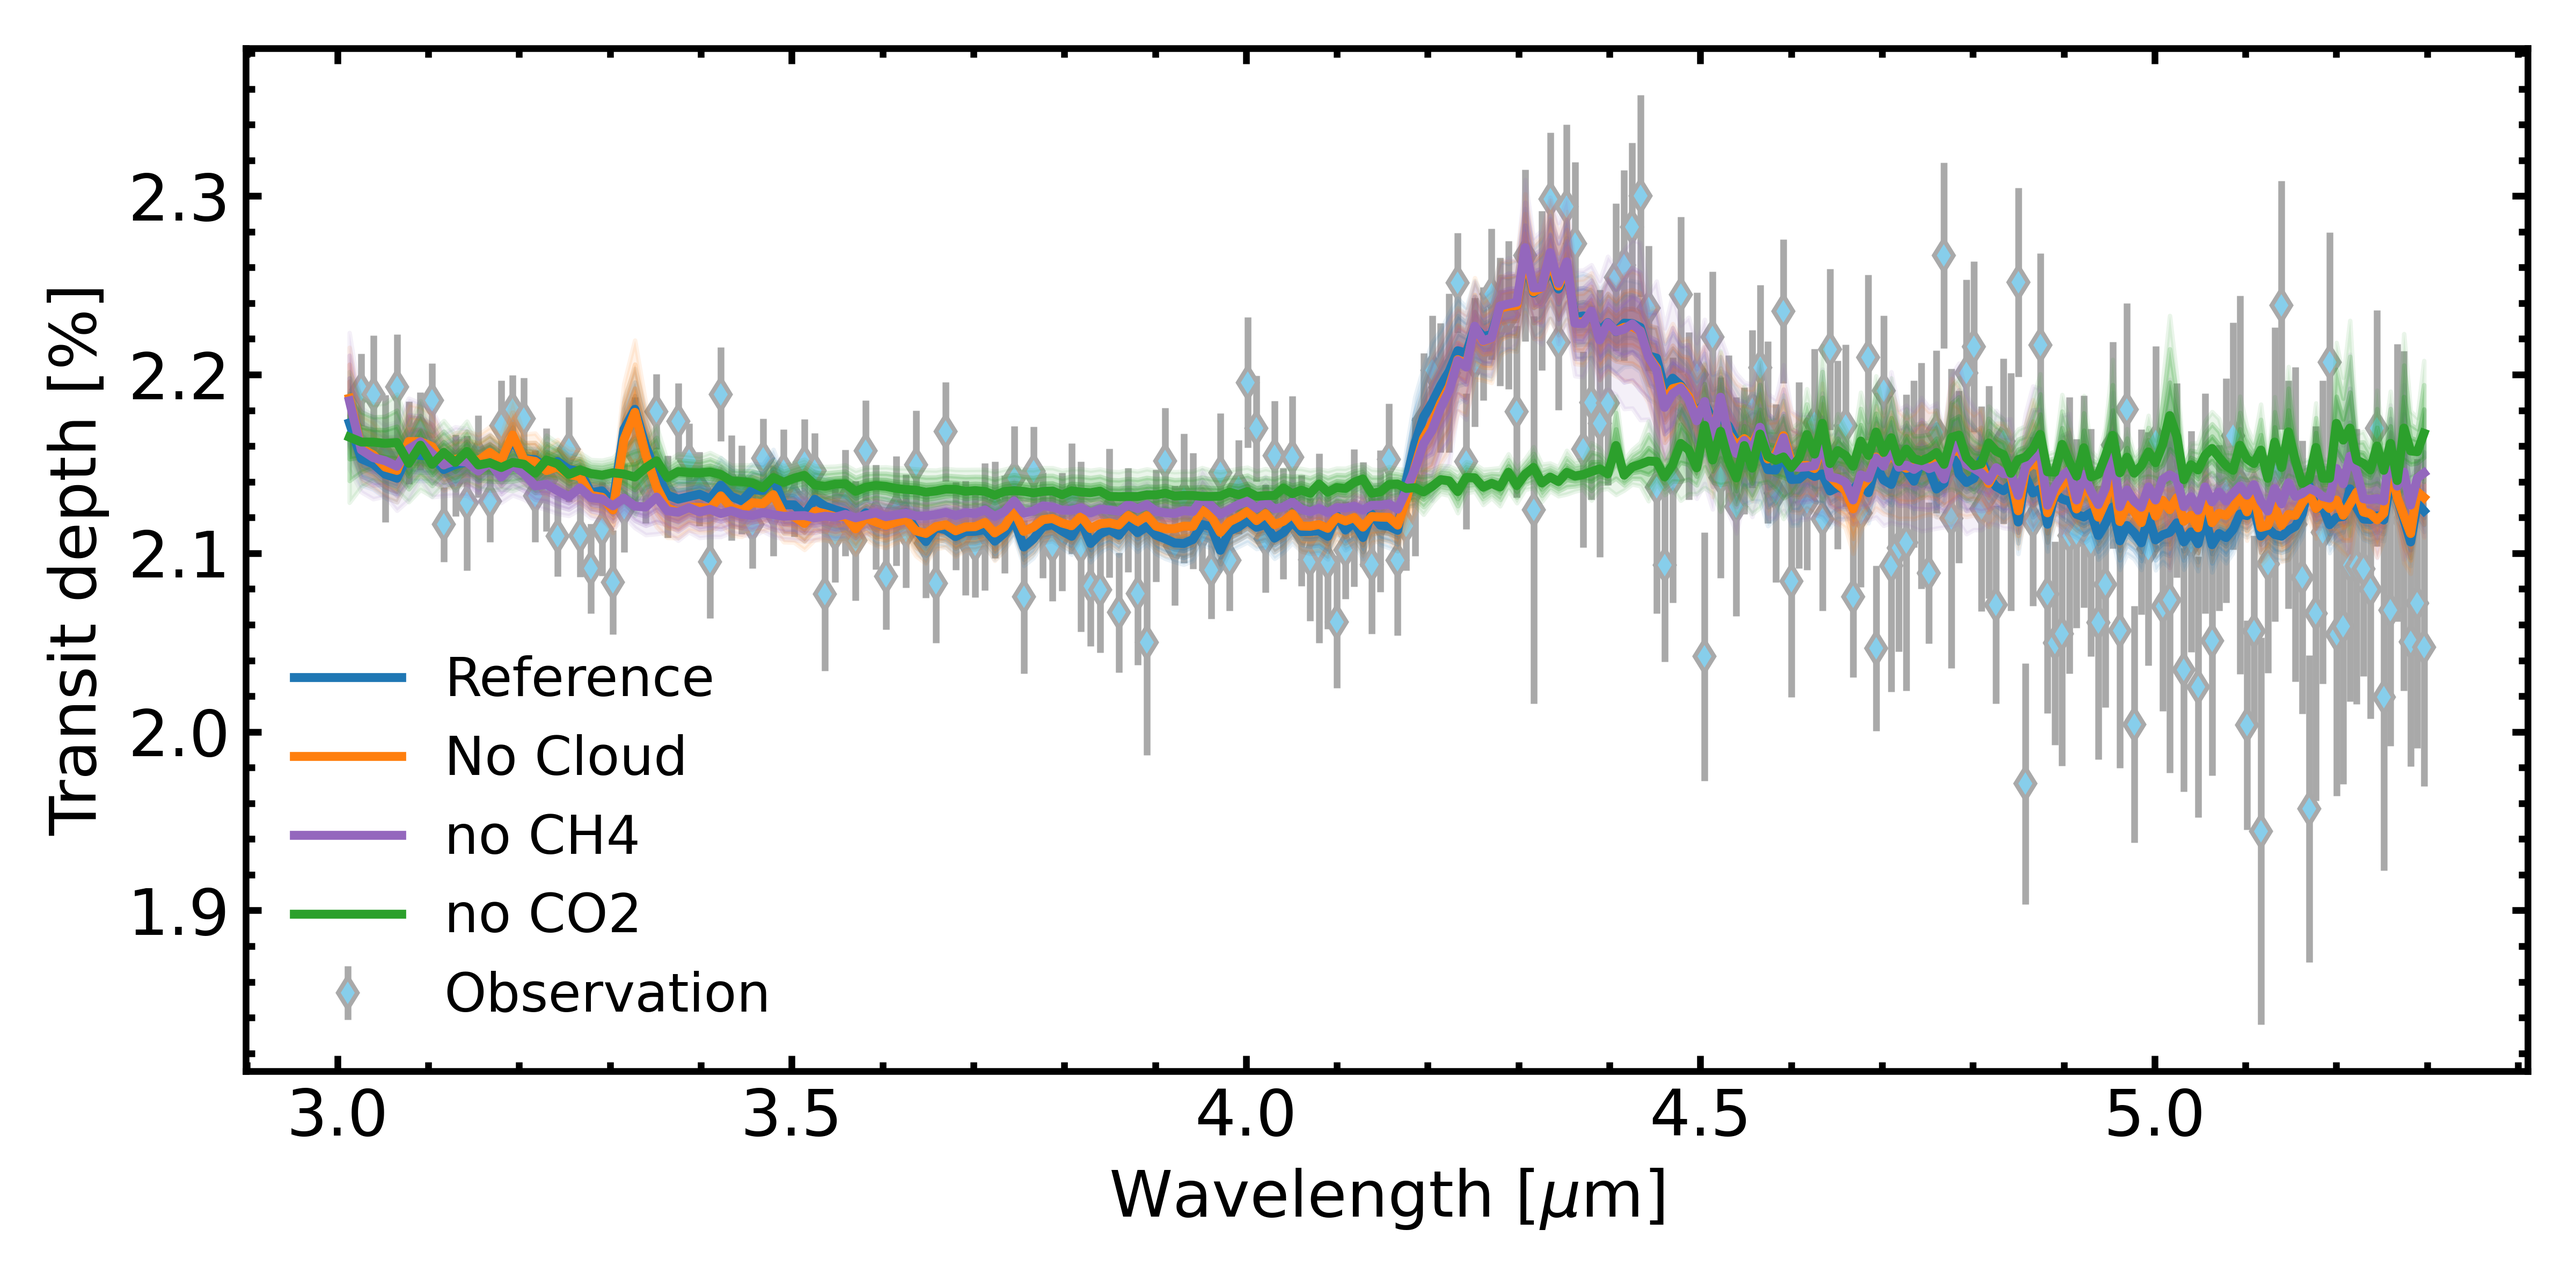
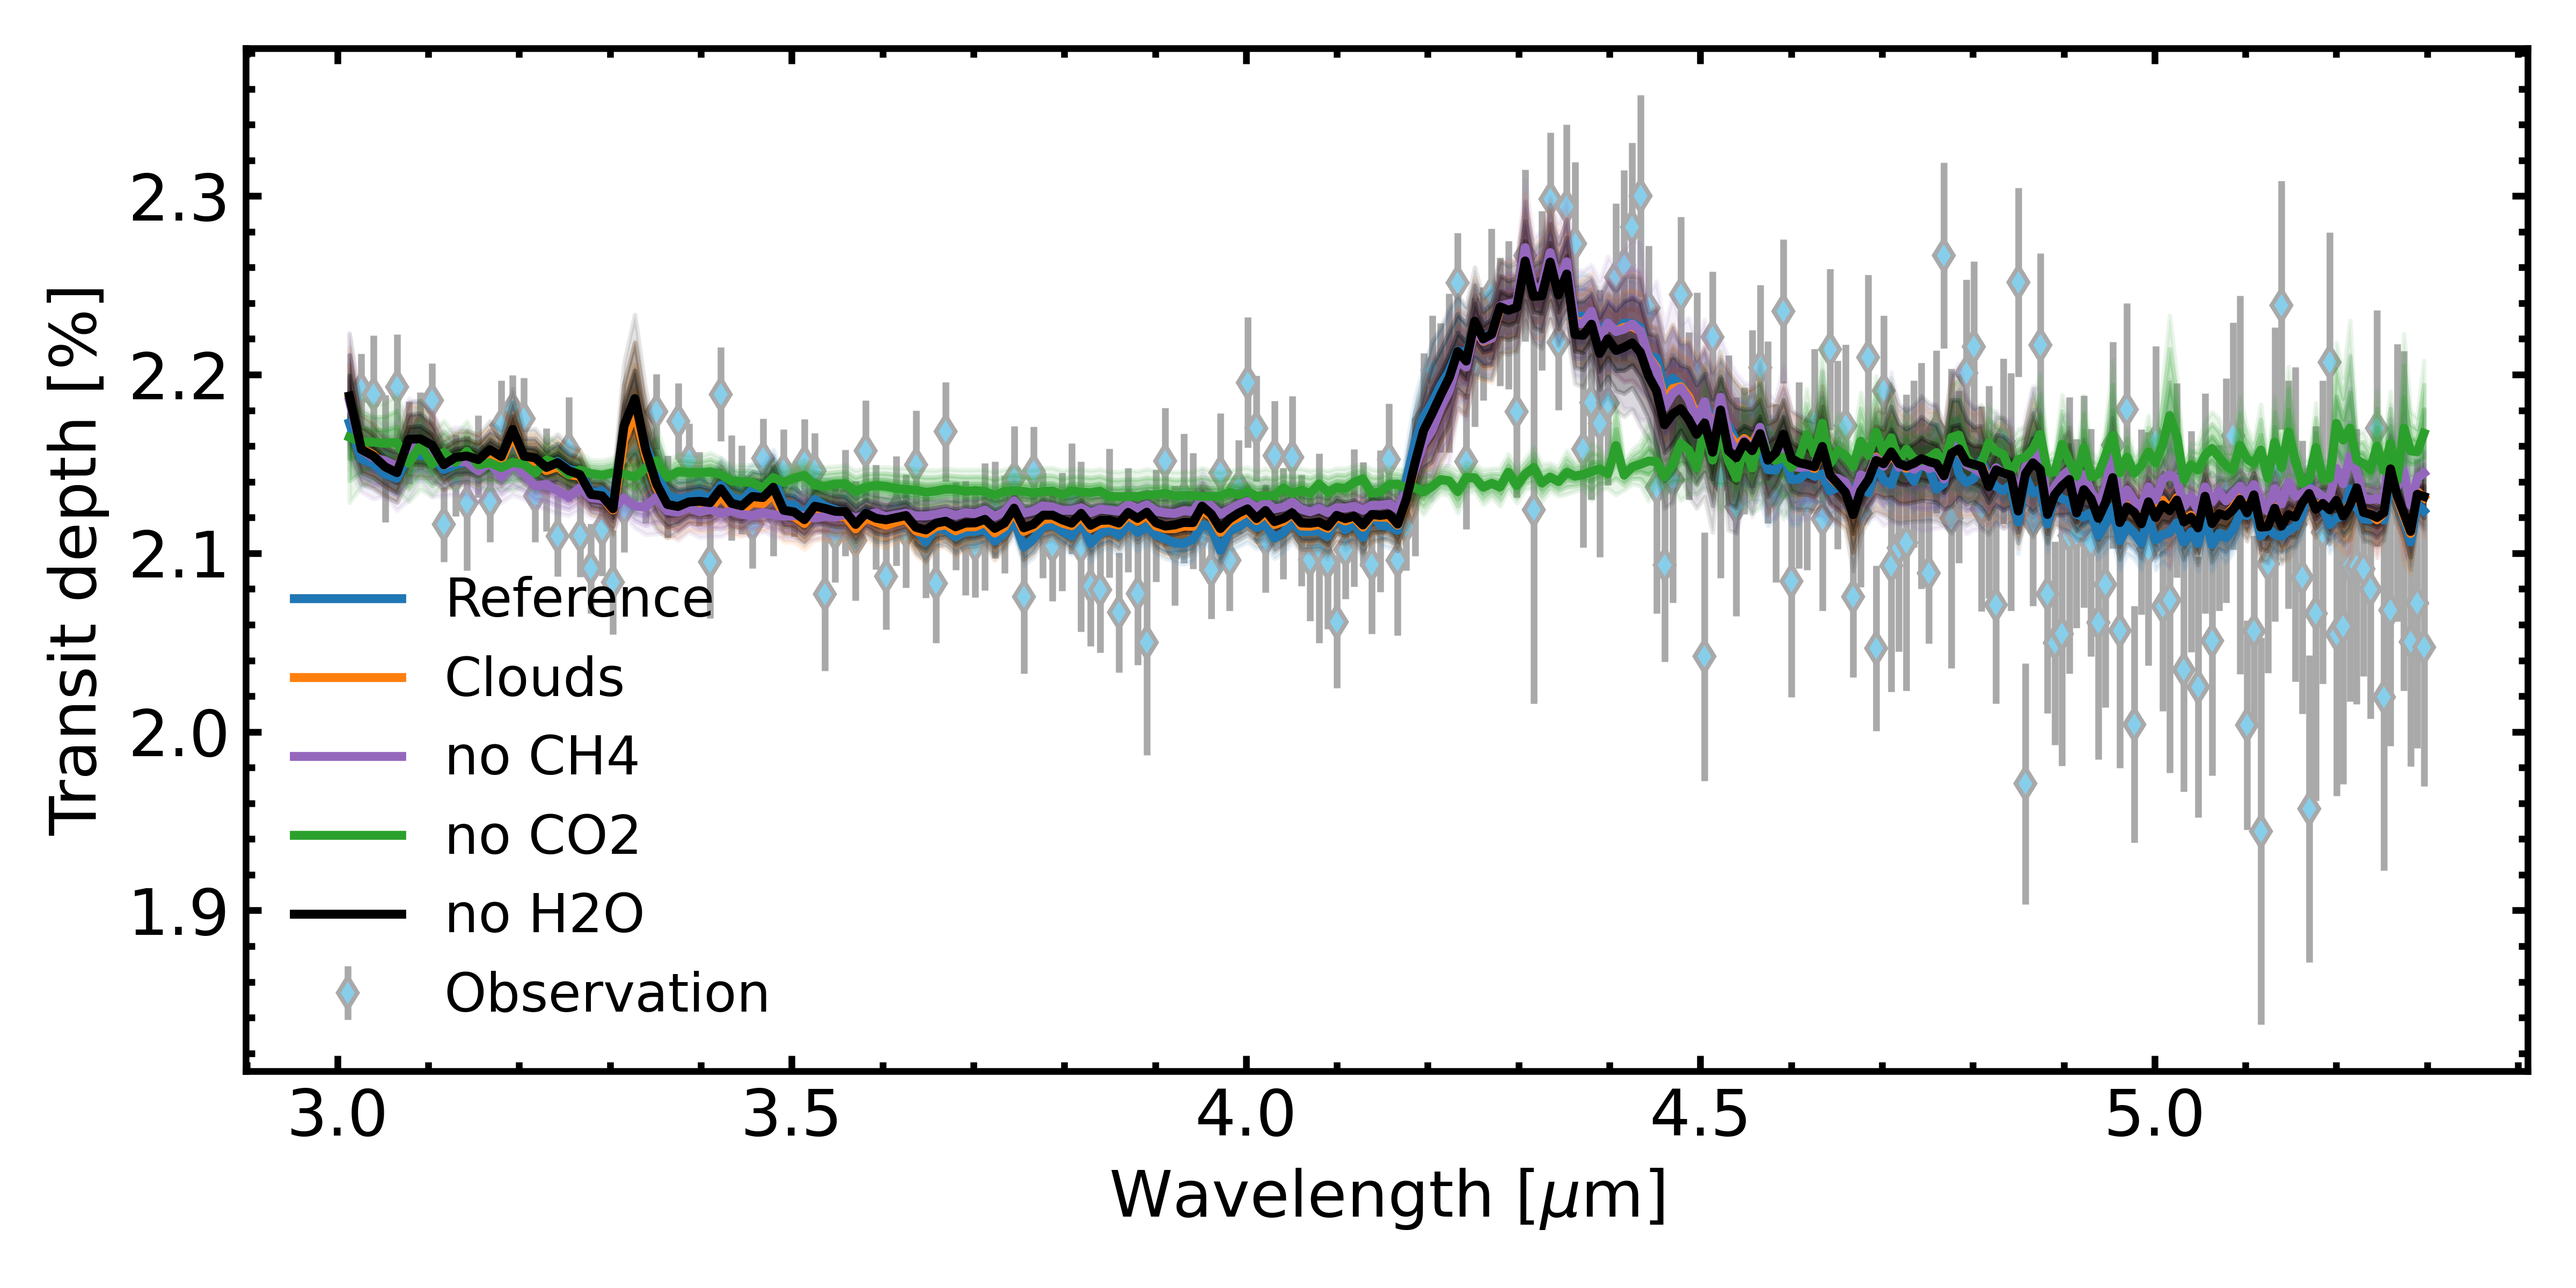
More Models

diff --git a/main.py b/main.py
@@ -21,9 +21,9 @@ def main():
         colour="tab:blue"
     )
 
-    nocloud = dar.create_taurex_solution(
+    cloud = dar.create_taurex_solution(
         filename=f"{DATA_DIR}/eureka_wasp39b.hdf5",
-        name_id="No Cloud",
+        name_id="Clouds",
         colour="tab:orange"
     )
 
@@ -39,6 +39,11 @@ def main():
         colour="tab:purple"
     )
 
+    noh2o = dar.create_taurex_solution(
+        filename=f"{DATA_DIR}/eureka_wasp39b_noH2O.hdf5",
+        name_id="no H2O",
+        colour="black"
+    )
     """
     sols = [wasp39b, nocloud, noch4, noco2]
     rs.plot_retrieval_spectrum(
@@ -48,10 +53,10 @@ def main():
     )
     """
     sols_talk = [
-        [], [wasp39b], [wasp39b, nocloud],
-        [wasp39b, nocloud, noch4, noco2]
+        [], [wasp39b], [wasp39b, cloud],
+        [wasp39b, cloud, noch4, noco2, noh2o]
     ]
-    names_talk = ["empty", "reference", "nocloud", "nomols"]
+    names_talk = ["empty", "reference", "cloud", "nomols"]
 
     for i in range(len(sols_talk)):
         rs.plot_retrieval_spectrum(
